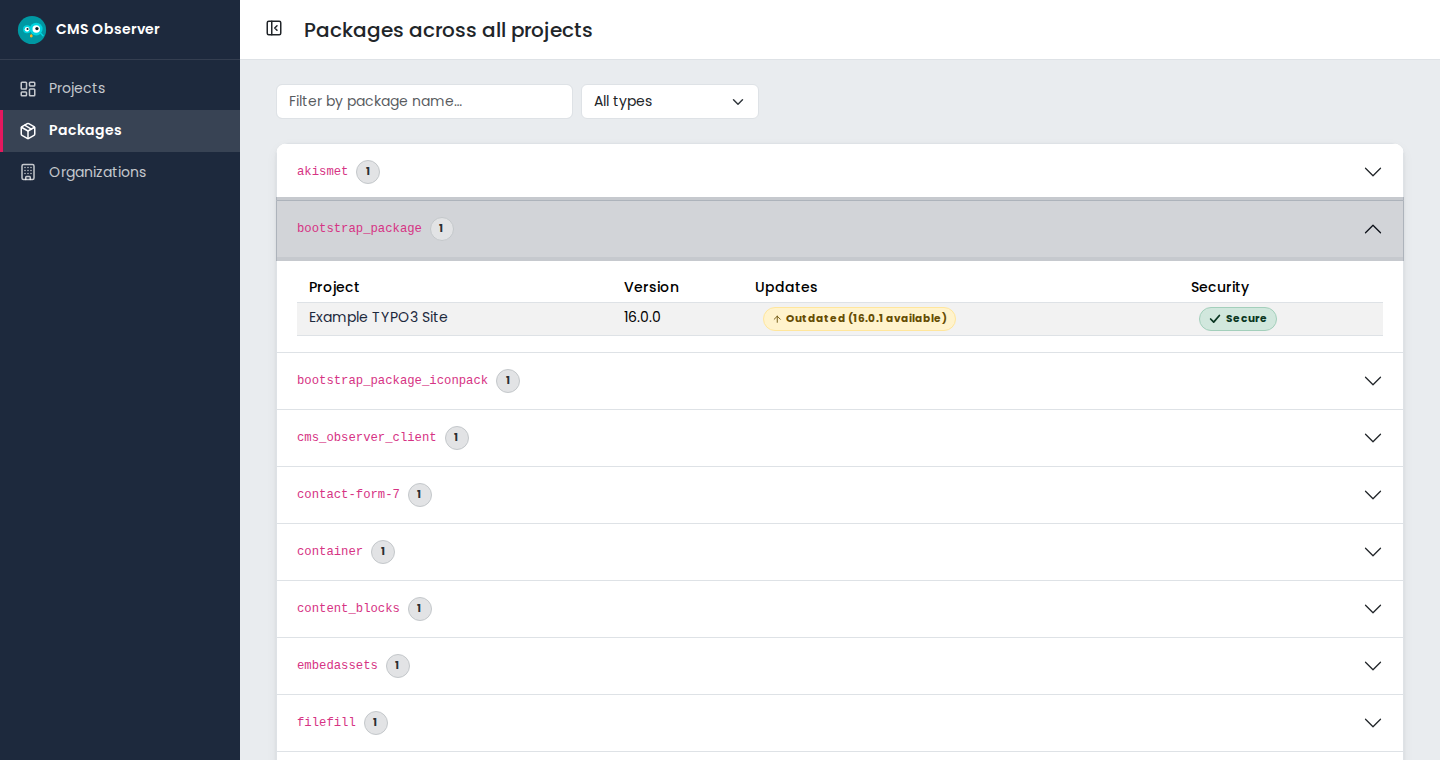
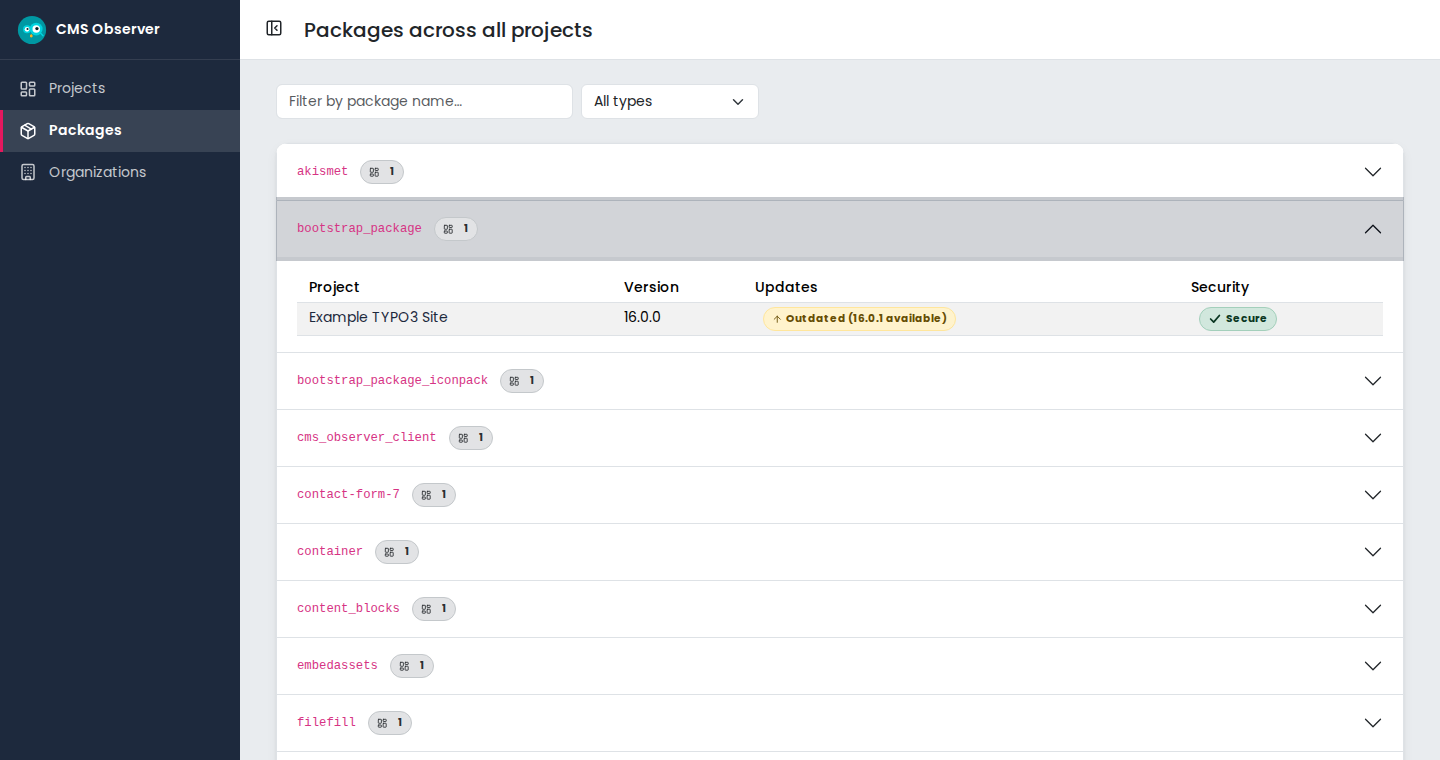
[TASK] Show the project count of a package like elsewhere
The packages page showed a plain number next to each package. It is
the number of projects the package is installed in, so it now uses the
count badge with the projects icon, like the organization list.

diff --git a/tests/Functional/Controller/DashboardPackagesTest.php b/tests/Functional/Controller/DashboardPackagesTest.php
@@ -33,6 +33,8 @@ class DashboardPackagesTest extends WebTestCase
 
         self::assertResponseIsSuccessful();
         self::assertSelectorExists('code:contains("akismet")');
+        // the number of projects it is installed in, like the organization list
+        self::assertSelectorTextSame('#packagesAccordion .accordion-button .badge-count[title="Projects"]', '1');
         self::assertSelectorNotExists('code:contains("news")');
     }
 }
